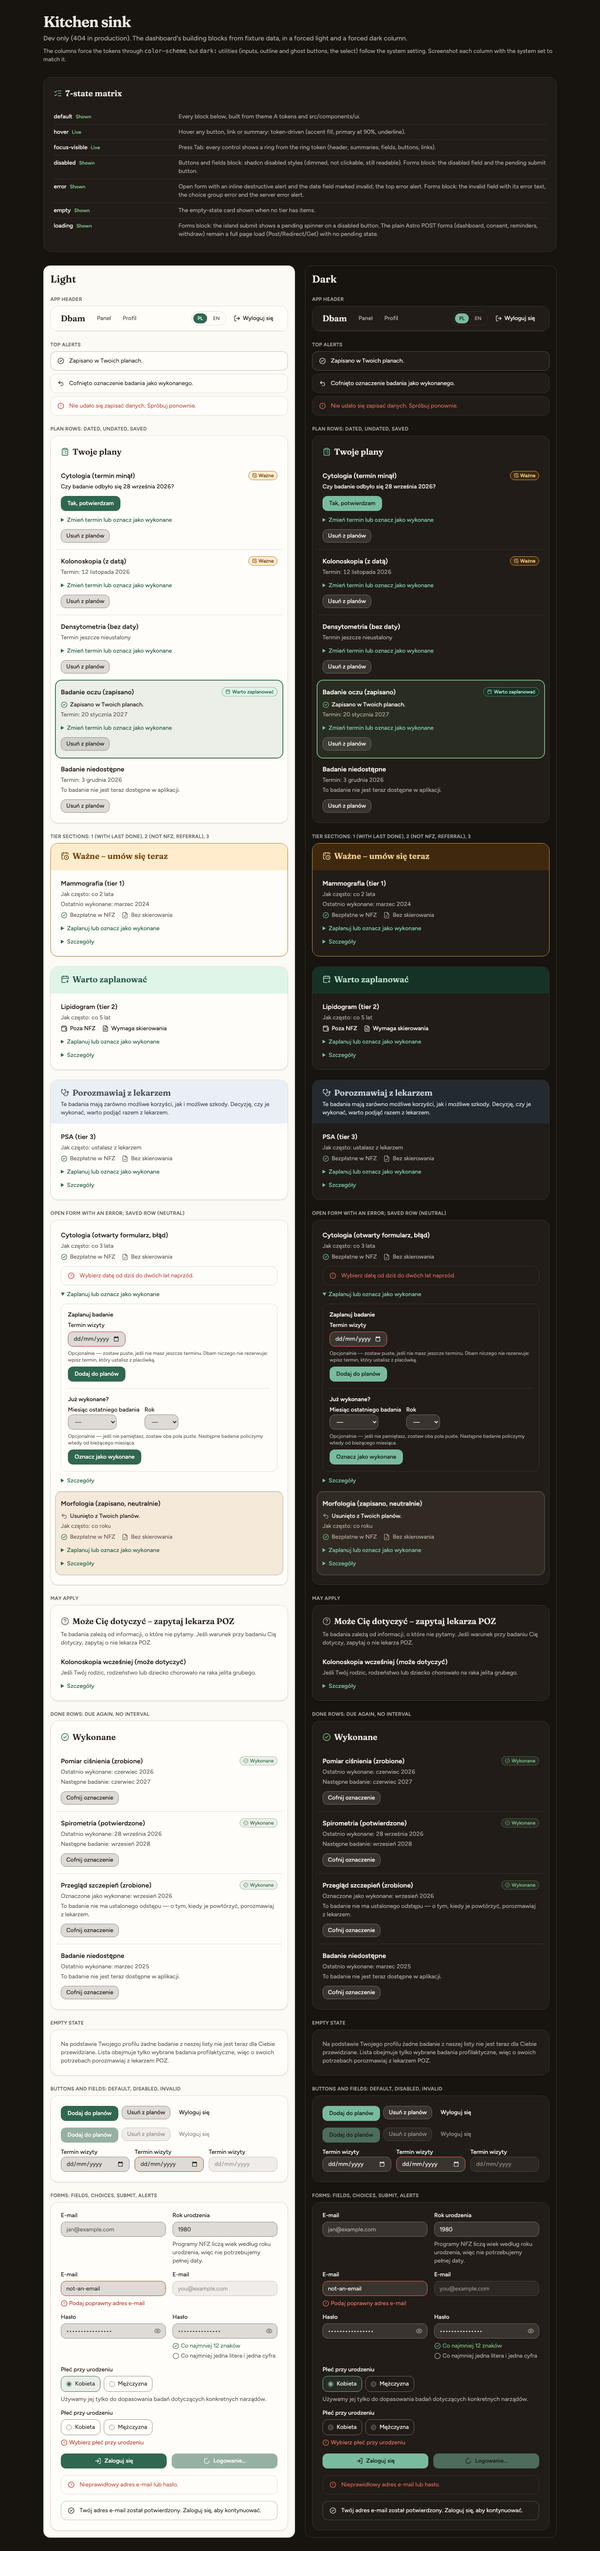
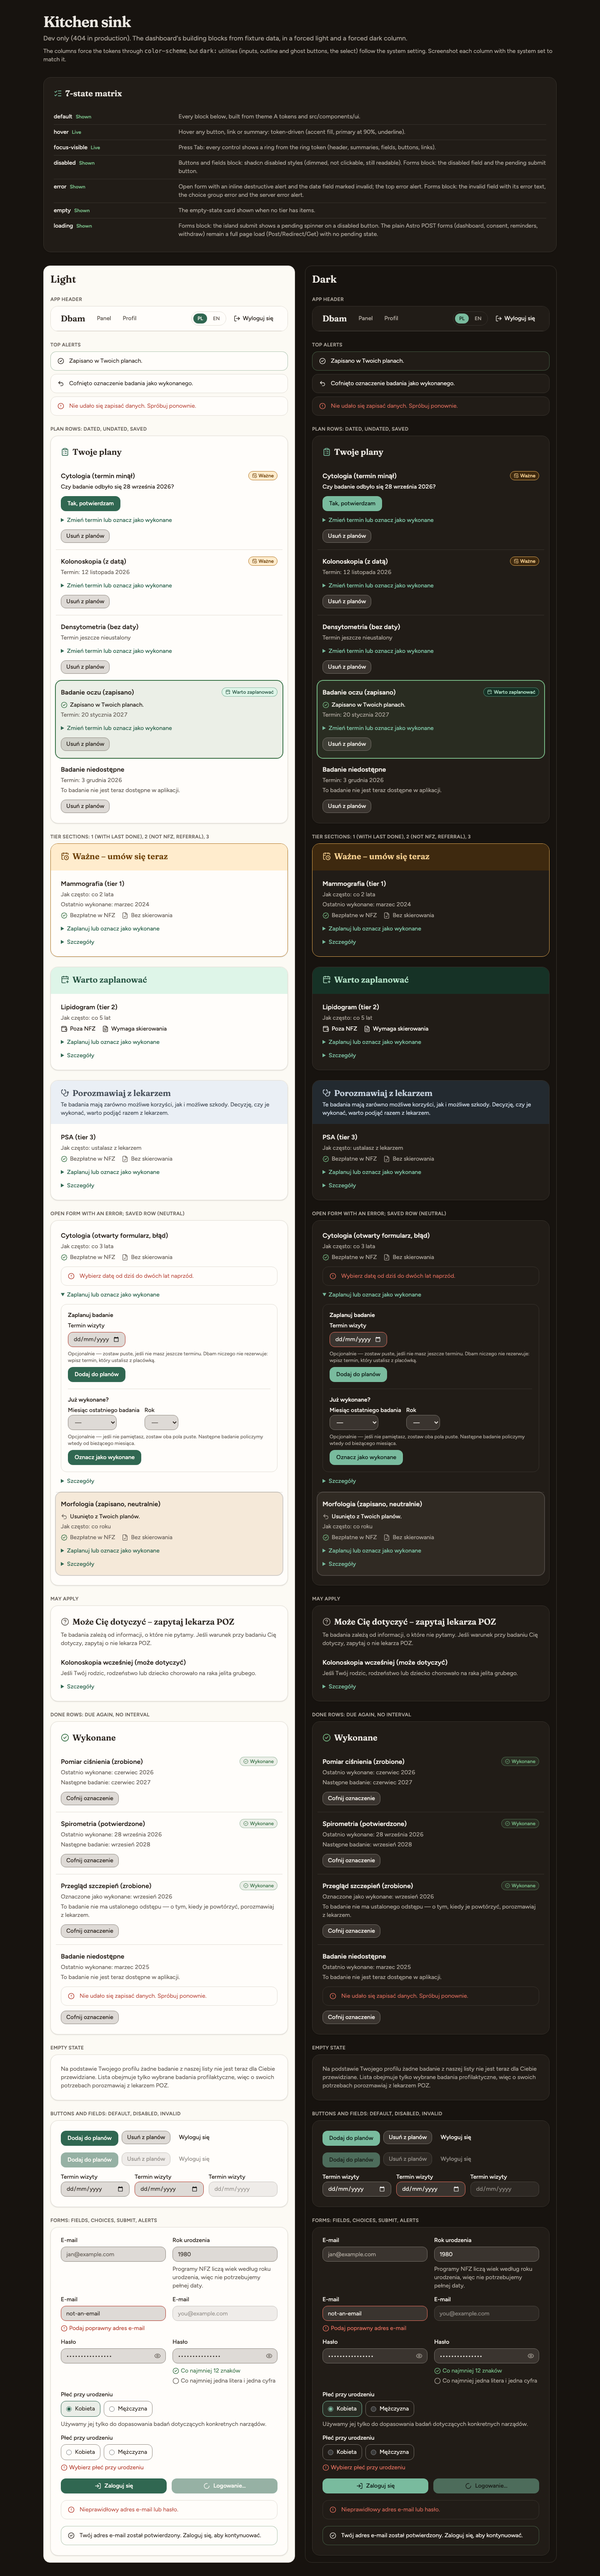
chore(missing-entry-plan): impl-review fixes and triage
Kitchen sink renders the unavailable done row in its error state; impl-review report
and triage logged in decisions.md.

diff --git a/context/changes/missing-entry-plan/impl-review.md b/context/changes/missing-entry-plan/impl-review.md
@@ -1,0 +1,64 @@
+<!-- IMPL-REVIEW-REPORT -->
+
+# Implementation Review: A plan with a missing catalog entry stays visible
+
+- **Plan**: context/changes/missing-entry-plan/plan.md
+- **Scope**: Full plan
+- **Reviewed phases**: 1, 2
+- **Date**: 2026-10-28
+- **Verdict**: APPROVED
+- **Findings**: 0 critical, 0 warnings, 2 observations
+
+## Verdicts
+
+| Dimension           | Verdict |
+| ------------------- | ------- |
+| Plan Adherence      | PASS    |
+| Scope Discipline    | WARNING |
+| Safety & Quality    | PASS    |
+| Architecture        | PASS    |
+| Pattern Consistency | PASS    |
+| Success Criteria    | WARNING |
+
+## Evidence
+
+- Diff `origin/main...HEAD` (commits a19ef90, 10be458, d9e479f, c6c00c9). Changed sources: `rules.ts`, `rules.test.ts`, `UnavailableItem.astro` (new), `pl.ts`, `en.ts`, `dashboard.astro`, `kitchen-sink.astro`, plus 4 kitchen-sink PNGs. Every planned file is in the diff, and every source file in the diff is in the plan. I reviewed inline, with no sub-agents, because the source diff is about 270 lines.
+- Plan adherence:
+  - `partitionDashboard` now pushes `{ plan, entry: null }` / `{ completion, entry: null }` instead of skipping them (`rules.ts:265-271,292-300`).
+  - `planned` is still built from every plan (`rules.ts:290`), and `hidden` is keyed by `completion.catalog_slug` (`rules.ts:308`).
+  - The dashboard branches on `entry === null` and keys `itemSlugs`/`errorFor`/`savedFor` by the record's own slug (`dashboard.astro:99-102,184-200,256-270`).
+  - `UnavailableItem` follows the reviewed contract: generic name, the record's own date line, the neutral note, one remove/undo form, and an sr-only name with the date line.
+- One deviation, documented in `decisions.md` ("Existing partition tests narrowed, not rewritten"): existing partition tests read view fields through a `withEntry()` narrowing helper. Assertions and expected values are unchanged.
+- Safety: no new query, endpoint or RLS change. The slug appears only in `id`, `data-slug` and the hidden input, never as visible text. Remove/undo rely on the delete policies, which check only `user_id` (`20260930093108_screening_records.sql:113-115,162-164`).
+- Automated gates (run now, at HEAD c6c00c9):
+  - `npm test`: 340/340 passed.
+  - `npm run ui:check`: 35 files, no hardcoded values.
+  - `npm run lint`: exit 0.
+  - `npx astro check`: 0 errors, 0 warnings, 0 hints.
+  - `npm run build`: complete.
+  - 2.3 (screenshots): not re-run. The four PNGs are committed.
+- Manual:
+  - 2.4: confirmed in `screenshots/kitchen-sink-desktop-dark.png`. Both columns show "Badanie niedostępne" with "Termin: 3 grudnia 2026" or "Ostatnio wykonane: marzec 2025", the neutral note and only "Usuń z planów" / "Cofnij oznaczenie". There is no tier badge and no visible slug.
+  - 2.5: the run is recorded in `decisions.md` ("Manual check 2.5 run locally"). The PR-description part is pending until the PR stage (F2).
+
+## Findings
+
+### F1 — The unavailable done row also carries `data-done`, which the plan didn't specify
+
+- **Severity**: 💡 OBSERVATION
+- **Impact**: 🏃 LOW — quick decision; fix is obvious and narrowly scoped
+- **Dimension**: Scope Discipline
+- **Location**: src/components/recommendations/UnavailableItem.astro:40-41
+- **Detail**: The plan names `data-plan` on a plan row "so plan-row selectors keep counting it". The implementation also puts `data-done` on the done row. This mirrors `DoneItem.astro:33` and is harmless today. But smoke asserts `bodyExcludes: "data-done"` / `"data-plan"` on several steps (`scripts/smoke.mjs:265,280,287,300,380`). A future smoke or e2e fixture with a missing-entry record would count these rows as ordinary plan/done rows. Selectors that need to tell them apart must use `data-unavailable`.
+- **Fix**: Keep the attribute and add one line to `decisions.md`: "an unavailable done row carries `data-done` like `DoneItem`; tell the two apart with `data-unavailable`".
+- **Decision**: ACCEPTED — keep `data-done`; the distinction is recorded in decisions.md ("Impl-review triage").
+
+### F2 — The error path on the unavailable row has no check, and 2.5's PR note is still open
+
+- **Severity**: 💡 OBSERVATION
+- **Impact**: 🏃 LOW — quick decision; fix is obvious and narrowly scoped
+- **Dimension**: Success Criteria
+- **Location**: context/changes/missing-entry-plan/plan.md (Progress 2.5); src/components/recommendations/UnavailableItem.astro:52-57
+- **Detail**: 2.5 is ticked. The worker took the anchor branch of the plan's either/or, so a failed remove showing its error on the unavailable row was never run. The kitchen sink also has no unavailable row in its error state, so the `Alert` markup in this component has never rendered. 2.5 also requires that "the PR description records that this check ran and its outcome". No PR exists yet, so that part is not done, although the row is `[x]`.
+- **Fix**: In the PR stage, paste the "Manual check 2.5 run locally" entry from `decisions.md` into the PR description. Optionally, give the kitchen-sink unavailable done fixture `error={t("errors.save_failed")}` so the error state is screenshotted.
+- **Decision**: FIXED — kitchen-sink unavailable done fixture now renders `error={t("errors.save_failed")}` (checked on the kitchen sink: the alert renders in light and dark); the 2.5 outcome goes into the PR description.

diff --git a/context/changes/missing-entry-plan/decisions.md b/context/changes/missing-entry-plan/decisions.md
@@ -71,3 +71,9 @@
 
 - Ran on the local stack under the DB lock: a fresh user with a mammography plan (2026-12-10) and a colonoscopy completion (2025-03), both catalog rows set to `draft`. The dashboard showed two "Badanie niedostępne" rows with their date lines; `#screening-mammography-nfz-program` resolved to the plan row; "Usuń z planów" redirected to `?saved=unplan#screening-…` with no error alert and no plan row left; "Cofnij oznaczenie" did the same (`?saved=undone`). Both rows were gone from the DB. Catalog status restored to `active`; lock released; dev server stopped. A failed-remove error on the row was not exercised (anchor-resolves branch of the plan's either/or).
 - Decided by: worker.
+
+## 2026-10-28 Impl-review triage (verdict APPROVED, 2 observations)
+
+- F1 (`data-done` on the unavailable done row): accepted, no code change. An unavailable done row carries `data-done` like `DoneItem`; tell the two apart with `data-unavailable`. Smoke's `bodyExcludes: "data-done"` / `"data-plan"` steps use no missing-entry records, so they are unaffected.
+- F2 (error path unchecked, 2.5 PR note open): fixed. The kitchen-sink unavailable done fixture now passes `error={t("errors.save_failed")}`, so the alert renders in the committed shots; confirmed once in light and dark. The "Manual check 2.5 run locally" entry above is pasted into the PR description.
+- Decided by: orchestrator (findings), worker (applied).

diff --git a/context/changes/missing-entry-plan/change.md b/context/changes/missing-entry-plan/change.md
@@ -1,7 +1,7 @@
 ---
 change_id: missing-entry-plan
 title: Keep a plan's screening and completion visible when its catalog entry is missing
-status: implemented
+status: impl_reviewed
 created: 2026-10-28
 updated: 2026-10-28
 archived_at: null
